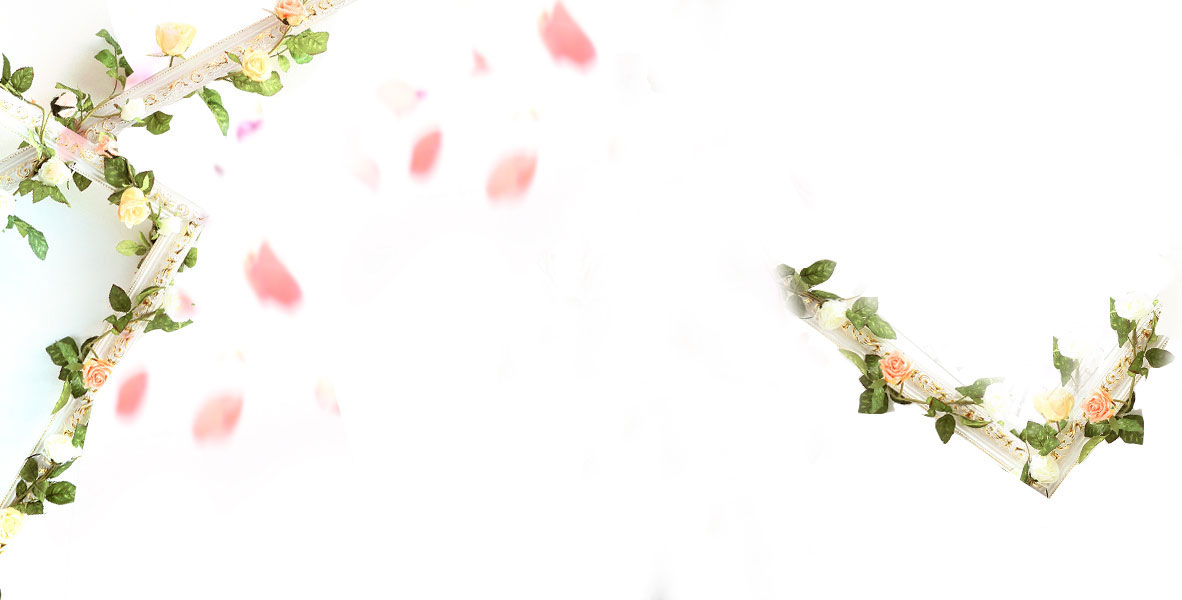
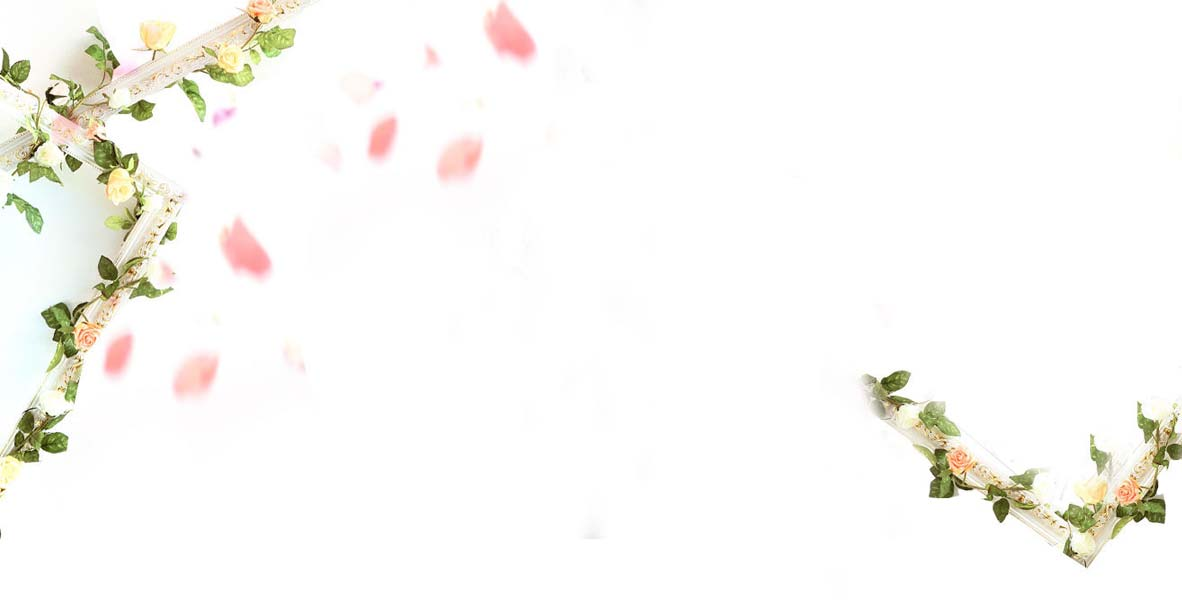
add feil

diff --git a/JSDome/webQQ/index2.js b/JSDome/webQQ/index2.js
@@ -1,0 +1,123 @@
+window.onload=function (){
+
+	var oBox=document.getElementById('box');
+	var oBtn=document.getElementById('btn');
+	var oImg=document.getElementById('img');
+	var oAddBtn=document.getElementById('add_btn');
+	var oLgnBtn=document.getElementById('lgn_btn');
+	var oUserName=document.getElementById('username');
+	var oPassWord=document.getElementById('password');
+	var oWrap=document.getElementById('wrap');
+	var oUl=document.getElementById('ul1');
+	var oTop=document.getElementById('top');
+//切换头像
+	var faceId='4';
+	oBtn.onclick=function (){
+		faceId++;
+		if(faceId==9)faceId=1;
+		oImg.src='face/'+faceId+'.jpg';
+	};
+//注册
+	var URL='http://zhinengshe.com/exercise/im/api.php';
+	oAddBtn.onclick=function (){
+		jsonp({
+			url:URL,
+			data:{
+				a:'reg',
+				user:oUserName.value,
+				pass:oPassWord.value,
+				face:faceId
+			},
+			success:function (json){
+				if(json.err)
+				{
+					alert('注册失败:'+json.msg);
+				}else
+				{
+					alert(json.msg);
+				}
+			}
+		});
+	};
+//登录
+	oLgnBtn.onclick=function (){
+		jsonp({
+			url:URL,
+			data:{
+				a:'lgn',
+				user:oUserName.value,
+				pass:oPassWord.value
+			},
+			success:function (json){
+				if(json.err)
+				{
+					alert('登录失败:'+json.msg);
+				}else
+				{
+					alert(json.msg);
+					//登录成功，聊天界面显示，登录界面消失
+					oWrap.style.display='block';
+					oBox.style.display='none';
+				//登录成功以后，已经告知:face:头像ID,login_time:上次登录时间,token:"token"
+					getUserList(json.token);//获取用户列表
+					getAllMsg(json.token);//获取全部信息
+				}
+			}
+		});
+	};
+
+	function getUserList(token){
+		jsonp({
+			url:URL,
+			data:{
+				a:'get_user_list',
+				token:token
+			},
+			success:function (json){
+				if(json.err)
+				{
+					alert('获取用户列表失败了');
+				}else
+				{
+					var arr=json.data;
+					for(var i=0; i<arr.length; i++)
+					{
+						var face=arr[i].face;
+						// face<1 && face=4;
+						face<1 && (face=4);
+						face>8 && (face=2)
+						var oLi=document.createElement('li');
+						oLi.innerHTML='<img src="face/'+face+'.jpg" width="20" alt=""><span>'+arr[i].username+'</span>';
+						oUl.appendChild(oLi);
+					}
+				}
+			}
+		});
+	}
+
+	function getAllMsg(token)
+	{
+		jsonp({
+			url:URL,
+			data:{
+				a:'get_msg',
+				token:token
+			},
+			success:function (json){
+				if(json.err)
+				{
+					alert('获取聊天列表失败了');
+				}else{
+					alert('成功');
+					var arr=json.data;
+					for(var i=0; i<arr.lrngth; i++)
+					{
+						var oDl=createMsg(arr[i].post_time,arr[i].content,arr[i].username);
+						oTop.appendChild(oDl);
+					}
+				}
+			}
+		});
+	}
+
+};

diff --git a/JSDome/webQQ/webQQ2.html b/JSDome/webQQ/webQQ2.html
@@ -1,0 +1,69 @@
+<!DOCTYPE html>
+<html lang="en">
+<head>
+	<meta charset="UTF-8">
+	<title>Document</title>
+<style>
+body{height:1000px;}
+	*{margin:0; padding:0; list-style:none;}
+	#box{width:300px; height:200px; border:1px solid #000; text-align:center;}
+
+	#wrap{width:700px; height:500px;  border:1px solid #ccc;position:absolute; left:50%; top:50%; margin:-250px 0 0 -350px;}
+	#left{position:absolute; left:0; top:0; width:500px; height:100%; background:#FCC;}
+	#top{width:100%; height:350px; position:absolute; left:0; top:0; }
+	#top dl{ padding:10px; padding-bottom:20px; border-top:1px dashed #000;}
+	#bottom{width:100%; height:150px; position:absolute; left:0; bottom:0;}
+	#bottom textarea{width:calc(100% - 2px);}
+	#bottom input{ position:absolute; right:10px; bottom:10px; border:1px solid #000; padding:5px 10px;}
+
+	#right{width:200px; height:100%; position:absolute; right:0; top:0; background:#fff; overflow-y:scroll; }
+	#right ul{}
+	#right li{width:100px; height:30px; overflow:hidden;} 
+</style>
+<script src="jsonp.js"></script>
+<script src="index2.js"></script>
+<script>
+
+</script>
+</head>
+<body>
+	<div id="box">
+		<div class="face">
+			<img src="face/4.jpg" alt="" id="img">
+			<a href="javascript:;" id="btn"> > </a>
+		</div>
+		<div class="msg">
+			<span>用户名:</span><input type="text" id="username"><br>
+	        <span>密 码 : </span><input type="password" id="password"><br>
+			<input type="button" value="注册" id="add_btn">
+	        <input type="button" value="登陆" id="lgn_btn">
+		</div>
+	</div>
+	<div id="wrap" style="display:none;">
+		<div id="left">
+			<div id="top">
+				<!-- <dl>
+					<dd>
+						<strong>名字</strong><em>时间</em>
+					</dd>
+					<dt>内容</dt>
+				</dl> -->
+			</div>
+			<div id="bottom">
+				<textarea name="" id="t1" cols="30" rows="10"></textarea>
+				<input type="button" value="发送" id="btn1">
+			</div>
+		</div>
+		<div id="right">
+			<ul id="ul1">
+				<!-- <li>
+					<img src="face/4.jpg" width="20" alt=""><span>名字</span>
+				</li>
+				<li>
+					<img src="face/4.jpg" width="20" alt=""><span>名字</span>
+				</li> -->
+			</ul>
+		</div>
+	</div>
+</body>
+</html>

diff --git a/index.html b/index.html
@@ -20,6 +20,10 @@
     <div class="swiper-container swiper-container-v">
         <div class="swiper-wrapper">
             <div class="swiper-slide page1" data-hash="1">
+                <div class="yezi1"></div>
+                <div class="yezi2"></div>
+                <div class="yezi3"></div>
+                <div class="hudie1"></div>
                 <div id="audio"></div>
                 <div class="btn1"></div>
                 <div class="box">
@@ -188,8 +192,8 @@
                         </li>
                         <li>
                             <a href="H5/3Dpicture/3D.html" target="_blank">
-                                <img src="images/3D (2).png" class="front" alt="">
-                                <img src="images/3D (2).png" class="back" alt="">
+                                <img src="images/3D-(2).jpg" class="front" alt="">
+                                <img src="images/3D-(2).jpg" class="back" alt="">
                             </a>
                             <div></div>
                         </li>
@@ -214,8 +218,8 @@
                         <span>姓名：</span>
                         <span>刘子欣</span></li>
                     <li>应聘：高级前端工程师</li>
-                    <li>手机：18510939937</li>
-                    <li>邮箱：18510939937@163.com</li>
+                    <li>手机：18046541663</li>
+                    <li>邮箱：18046541663@163.com</li>
                     <li>Q Q ：919111051</li>
                     <li class="my">1.为人性格开朗，积极向上，有较强的沟通能力，对工作认真负责，为人随和，喜欢运动。</li>
                     <li class="my">2.良好的代码风格，喜欢在逛一些论坛，比如知乎、github，看一些技术性的文章，领悟他人的程序思路。</li>

diff --git a/JSDome/webQQ/webQQ.html b/JSDome/webQQ/webQQ.html
@@ -20,7 +20,7 @@ body{width:100%; height:100%;background:url(face/bg.jpg) no-repeat; background-s
 #wrap{ width:700px; height:500px; border:1px solid #ccc; position:absolute; left:50%; top:50%; margin:-250px 0 0 -350px; border-radius: 10px; overflow:hidden;}
 
 #left{ position:absolute; left:0; top:0; width:500px; height:100%; background:#FCC;}
-#left_top{ position:absolute; left:0; top:0; width:100%; height:350px; background:#fff; overflow-y:scroll; overflow-x:hidden;}
+#left_top{ position:absolute; left:0; top:0; width:100%; height:350px; background:#fff; /*??*/ overflow-y:scroll; overflow-x:hidden; /*??*/}
 #left_top dl{ padding:10px; padding-bottom:20px; border-top:1px dashed #000;}
 
 #left_bottom{ position:absolute; left:0; bottom:0; background:#fff; width:100%; height:150px;font-size:20px;}
@@ -29,7 +29,7 @@ body{width:100%; height:100%;background:url(face/bg.jpg) no-repeat; background-s
 #btn1{width:80px; height:40px; background:none; cursor:pointer;}
 #btn1:hover{ box-shadow:2px 2px 5px #666;}
 
-#right{ position:absolute; right:0; top:0; width:200px; height:100%; background:#fff;overflow-y:scroll; overflow-x:hidden;}
+#right{ position:absolute; right:0; top:0; width:200px; height:100%; background:#fff;/*??*/overflow-y:scroll; overflow-x:hidden;/*??*/}
 #right ul{}
 #right ul li{ height:30px; line-height:30px; border-bottom:1px dashed #000; width:100px; overflow:hidden;}
 #right ul li img{ float:left; width:20px; margin-left:3px; margin-top:5px;}

diff --git a/css/index.css b/css/index.css
@@ -1,5 +1,4 @@
 
-
  html, body {
         position: relative;
         height: 100%;
@@ -16,23 +15,18 @@
     .swiper-container {
         width: 100%;
         height: 100%;
-
     }
     .swiper-slide {
         text-align: center;
         font-size: 18px;
         background: #fff; 
-
     }
     .swiper-container-v {
         background: #eee;
     }
 
-
 /*nav*/
 /*.nav{ z-index:9; width:150px; height:100%; background:#ffc; position:absolute; right:0; top:0;}*/
-
-
 
 
 /*首屏*/
@@ -47,8 +41,14 @@
     display:-ms-box; 
     -ms-box-pack:center;
     -ms-box-align:center;
-
 }
+
+.yezi1{width:50px; height:50px; background:url(../images/yezi1.png) no-repeat; background-size:cover;  position:absolute; left:50%; top:40%;}
+.yezi2{width:30px; height:30px; background:url(../images/yezi1.png) no-repeat; background-size:cover; position:absolute; left:40%; top:20%;}
+.yezi3{width:40px; height:40px; background:url(../images/yezi1.png) no-repeat; background-size:cover; position:absolute; left:30%; top:30%;}
+.hudie1{width:73px; height:73px; background:url(../images/hudie.png) no-repeat; background-size:cover; position:absolute; left:60%; top:50%;}
+
+
 #audio{width:77px; height:33px; /*background:url(../images/button2.png) no-repeat;*/ position:absolute; right:5%; top:10%; z-index:9; cursor:pointer; 
     -webkit-transition:.3s all ease;
     -ms-transition:.3s all ease;

diff --git a/JSDome/webQQ/index.js b/JSDome/webQQ/index.js
@@ -60,12 +60,12 @@ window.onload=function(){
 					oLoginBox.style.display='none';	
 					oWrap.style.display='block';
 					
-					getUserList(json.token);
-					getAllMsg(json.token);
-					sendMsg(json.token);
-					
+					getUserList(json.token); //获取用户列表
+					getAllMsg(json.token);	//获取聊天信息
+					sendMsg(json.token);	//发送信息
+						
 					setInterval(function(){
-						getNewMsg(json.token);
+						getNewMsg(json.token);	//发送信息后获取新的信息
 					},1000);
 				}
 			}	

diff --git a/H5/hzt/parseInt.html b/H5/hzt/parseInt.html
@@ -1,0 +1,13 @@
+<!DOCTYPE html>
+<html lang="en">
+<head>
+	<meta charset="UTF-8">
+	<title>Document</title>
+<script>
+	alert(["1", "2", "3"].map(parseInt))
+</script>
+</head>
+<body>
+	
+</body>
+</html>
